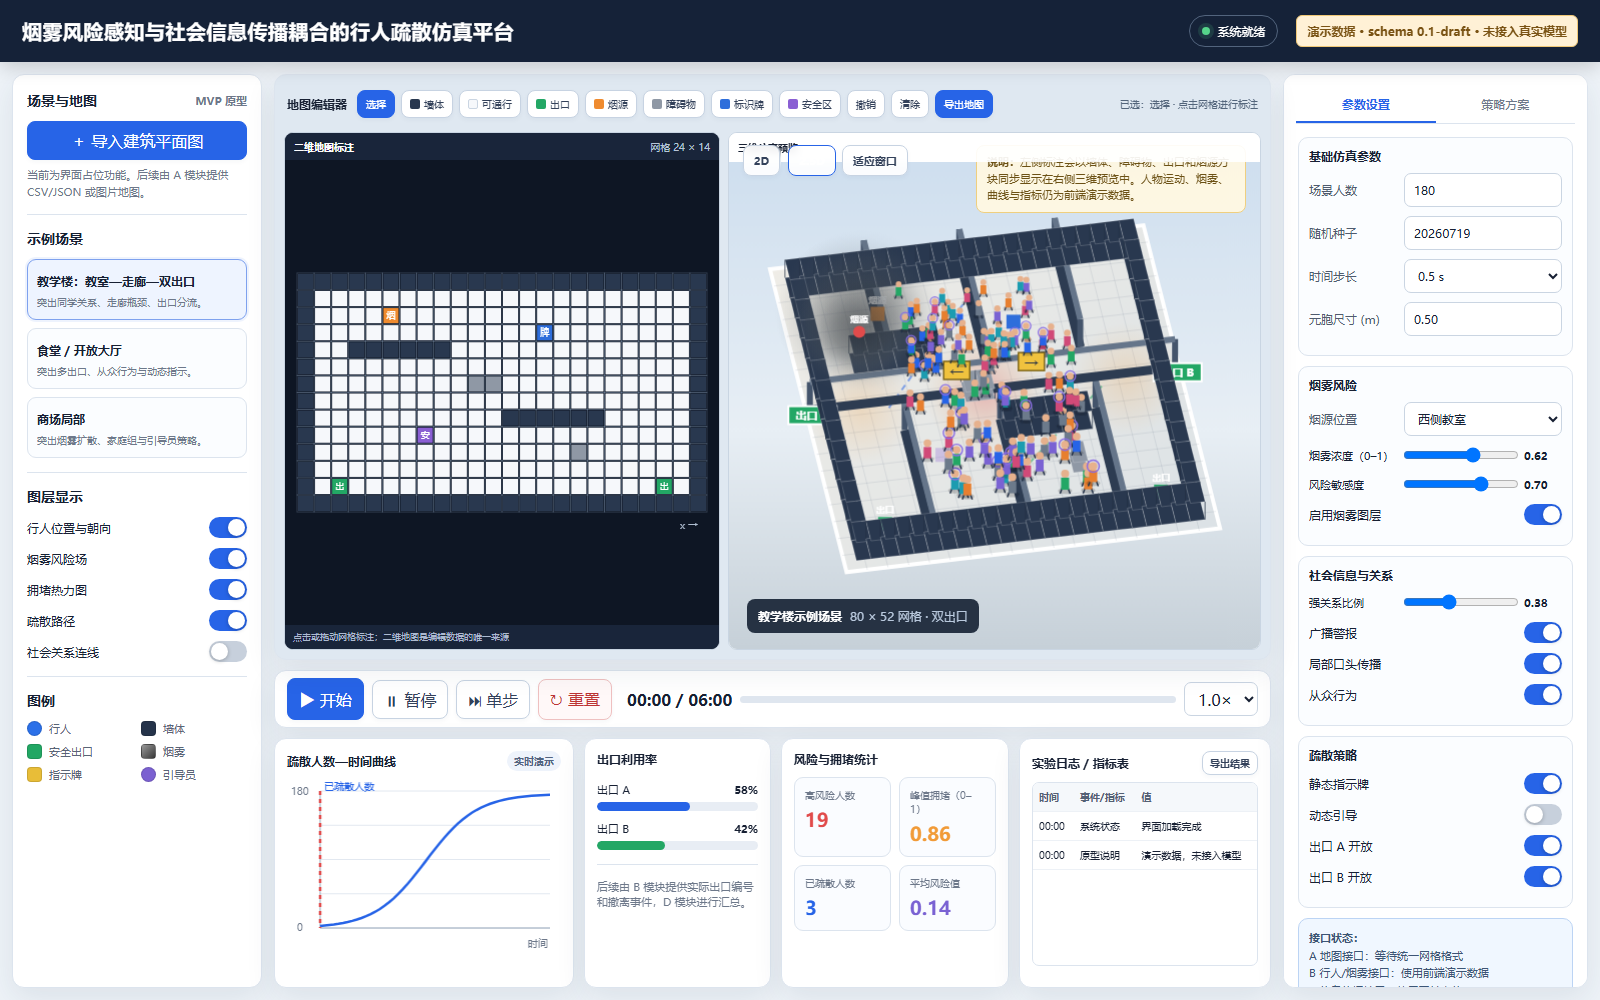
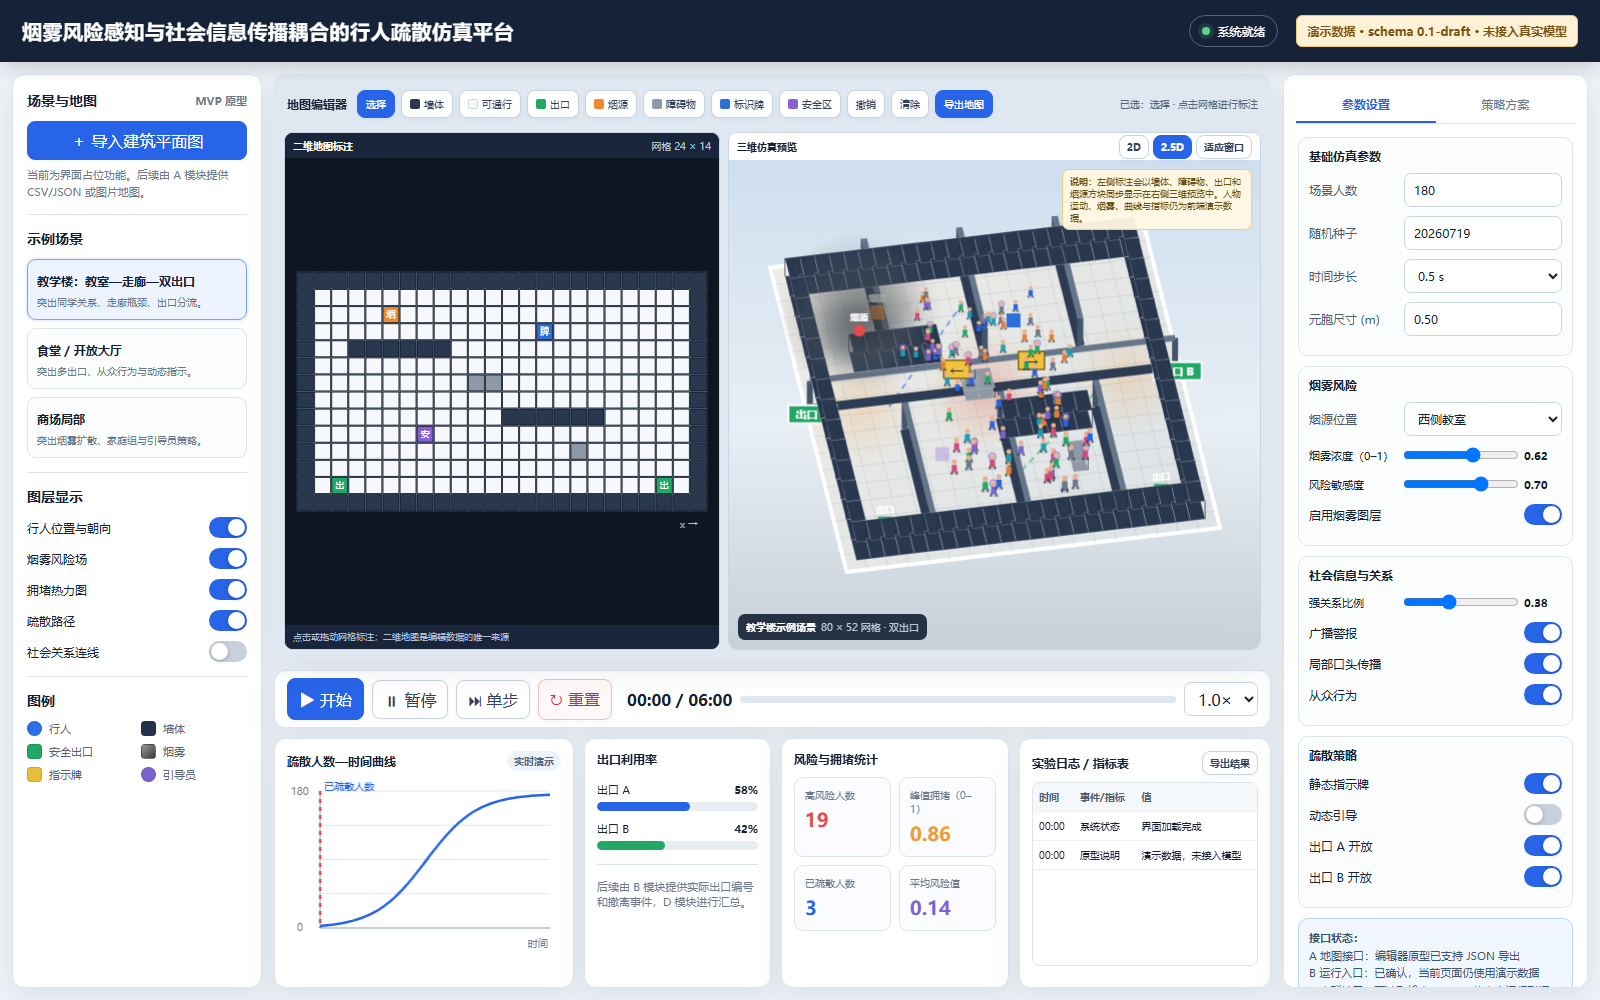
feat: refine map editor preview and document upstream contract

diff --git a/visualization/prototype/week2_ui_prototype.html b/visualization/prototype/week2_ui_prototype.html
@@ -85,20 +85,21 @@
   .map-workspace{flex:1;min-height:0;display:grid;grid-template-columns:minmax(250px,.9fr) minmax(310px,1.1fr);gap:8px}
   .editor-card,.preview-card{position:relative;min-width:0;min-height:0;border:1px solid #c9d5e2;border-radius:9px;background:#fff;overflow:hidden;display:flex;flex-direction:column}
   .editor-card{background:#111927}
-  .editor-head,.preview-head{height:30px;display:flex;align-items:center;justify-content:space-between;padding:0 9px;font-size:10px;font-weight:800;background:rgba(255,255,255,.92);z-index:2}
+  .editor-head,.preview-head{height:28px;display:flex;align-items:center;justify-content:space-between;padding:0 8px;font-size:10px;font-weight:800;background:rgba(255,255,255,.92);z-index:2}
   .editor-head{background:#19253a;color:#fff}.editor-head span{font-weight:500;color:#b8c6d8}
   .editor-hint{height:25px;padding:5px 8px;font-size:9px;color:#adbad0;background:#19253a;white-space:nowrap}
   #mapEditorCanvas,#simCanvas{width:100%;height:100%;display:block}
   #mapEditorCanvas{cursor:crosshair;background:#0e1624}
   .preview-card #simCanvas{background:linear-gradient(#d9e7f5,#edf3f8);flex:1}
-  .view-toolbar{position:absolute;left:14px;top:12px;display:flex;gap:7px}
-  .view-toolbar .btn{padding:7px 10px;font-size:11px;background:rgba(255,255,255,.9);backdrop-filter:blur(4px)}
+  .view-toolbar{position:static;display:flex;gap:4px;align-items:center}
+  .view-toolbar .btn{padding:4px 7px;font-size:10px;background:rgba(255,255,255,.9);backdrop-filter:blur(4px)}
+  .view-toolbar .btn.primary{background:var(--blue);border-color:var(--blue);color:#fff}
   .overlay-note{
-    position:absolute;right:14px;top:12px;background:rgba(255,248,225,.94);border:1px solid #efcf7f;
-    color:#6c5115;border-radius:8px;padding:8px 10px;font-size:11px;max-width:270px;line-height:1.5
+    position:absolute;right:8px;top:36px;background:rgba(255,248,225,.94);border:1px solid #efcf7f;
+    color:#6c5115;border-radius:7px;padding:5px 7px;font-size:9px;max-width:190px;line-height:1.35
   }
-  .scene-label{position:absolute;left:18px;bottom:16px;background:rgba(15,27,45,.88);color:#fff;border-radius:8px;padding:9px 11px;font-size:12px}
-  .scene-label span{color:#b9c9dd;margin-left:8px}
+  .scene-label{position:absolute;left:9px;bottom:9px;background:rgba(15,27,45,.88);color:#fff;border-radius:7px;padding:6px 8px;font-size:10px}
+  .scene-label span{color:#b9c9dd;margin-left:5px}
   .controls{height:58px;padding:9px 12px;display:flex;align-items:center;gap:8px}
   .controls .btn{min-width:72px}
   .controls .timer{font-variant-numeric:tabular-nums;font-weight:800;margin-left:7px}
@@ -301,10 +302,10 @@
 
       <div class="status-card" id="interfaceStatus">
         <b>接口状态：</b><br>
-        A 地图接口：等待统一网格格式<br>
-        B 行人/烟雾接口：使用前端演示数据<br>
-        C 信息传播接口：使用开关占位<br>
-        D 日志与指标：结构已设计
+        A 地图接口：编辑器原型已支持 JSON 导出<br>
+        B 运行入口：已确认，当前页面仍使用演示数据<br>
+        C 人群接口：可读取输出 JSON，待真实运行联调<br>
+        D 日志与指标：逐步日志链路已完成
       </div>
       <div class="footer-actions">
         <button class="btn" id="applyBtn">应用参数</button>
@@ -617,17 +618,17 @@
 
   function drawAgents(){
     if(!$('layerPeople').checked)return;
-    agents.filter(a=>!a.evacuated).slice(0,130).forEach(a=>{
+    agents.filter(a=>!a.evacuated).slice(0,96).forEach(a=>{
       const q=pathPoint(a),p=project(q.x,q.y,7);
-      const scale=perspective ? .65+q.y*.45 : .88;
+      const scale=perspective ? .52+q.y*.31 : .70;
       const colors=['#2764e7','#23a765','#e77f2f','#7a62d3','#1c9cb0','#d14a78','#6c7a8b'];
       ctx.save();ctx.translate(p.x,p.y);ctx.scale(scale,scale);
-      ctx.fillStyle='rgba(0,0,0,.18)';ctx.beginPath();ctx.ellipse(0,8,7,3,0,0,Math.PI*2);ctx.fill();
+      ctx.fillStyle='rgba(0,0,0,.16)';ctx.beginPath();ctx.ellipse(0,7,6,2.5,0,0,Math.PI*2);ctx.fill();
       ctx.strokeStyle='#223047';ctx.lineWidth=1.5;
-      ctx.beginPath();ctx.moveTo(-2,3);ctx.lineTo(-5,11);ctx.moveTo(2,3);ctx.lineTo(5,11);ctx.stroke();
-      ctx.fillStyle=colors[a.hue];ctx.fillRect(-4,-5,8,12);
-      ctx.fillStyle='#e7b18d';ctx.beginPath();ctx.arc(0,-9,4,0,Math.PI*2);ctx.fill();
-      if(a.group>=0){ctx.strokeStyle='#8a6de3';ctx.lineWidth=1.5;ctx.beginPath();ctx.arc(0,-9,6,0,Math.PI*2);ctx.stroke();}
+      ctx.beginPath();ctx.moveTo(-2,3);ctx.lineTo(-4,9);ctx.moveTo(2,3);ctx.lineTo(4,9);ctx.stroke();
+      ctx.fillStyle=colors[a.hue];ctx.fillRect(-3.5,-4,7,10);
+      ctx.fillStyle='#e7b18d';ctx.beginPath();ctx.arc(0,-8,3.4,0,Math.PI*2);ctx.fill();
+      if(a.group>=0){ctx.strokeStyle='#8a6de3';ctx.lineWidth=1.3;ctx.beginPath();ctx.arc(0,-8,5,0,Math.PI*2);ctx.stroke();}
       ctx.restore();
     });
   }

diff --git a/docs/d_week3/weekly_report.md b/docs/d_week3/weekly_report.md
@@ -47,8 +47,8 @@
 
 ## 4. 当前最大问题
 
-1. B 尚未确认唯一正式仿真入口；
-2. B 尚未提供公开的逐步快照、撤离状态、冲突和出口切换事件；
+1. 上游已确认正式仿真入口为 `simulation.ca_model.CaEvacSimulation`，`step` 从 0 开始，且 `time_s = step × 0.5`；
+2. 上游暂未提供公开的运行后快照、`people_log.csv`、`heading`、`risk`、`dose`、`conflict` 和 `exit_switch`；D 对这些字段统一保留为空，不编造演示值；
 3. A 的 JSON/CSV 已能进入 D 地图预览，但地图烟源和出口元数据尚未组装为 B 的 `ScenarioConfig`；
 4. C 的 YAML 配置和 `output_people.json` 均可读取；
 5. C 的人员编号已经在 D 适配层兼容，当前仍需团队确认最终统一编号口径；
@@ -59,8 +59,8 @@
 
 1. 收到 A 的 CSV 顺序、烟源和出口元数据确认后，将地图预览接入可运行场景；
 2. 将 C 的 YAML 参数和人员关系输出接入统一场景工厂；
-3. 根据 B 确认的正式入口替换临时 mock 入口；
-4. 接入公开的 `heading`、`risk`、`dose`、拥堵和事件字段；
+3. 等待上游提供运行后快照和 `people_log.csv`，与 D 的日志字段进行正式对照；
+4. 接入后续公开的 `heading`、`risk`、`dose`、拥堵和事件字段；
 5. 使用更大场景检查动画性能、日志规模和异常处理；
 6. 开始计算第一批真实疏散指标。
 
@@ -71,7 +71,7 @@ D 没有修改 A、B、C 的代码或模型逻辑；本次新增的 `c_output_pe
 后续联调需要：
 
 - A 确认 CSV 行优先规则、上传函数命名及地图元数据传递方式；
-- B 提供唯一正式仿真入口与公开逐步状态；
+- 上游后续提供运行后快照、`people_log.csv` 与未实现字段的正式输出；
 - C 提供 YAML 配置到人员、关系及信息状态的稳定输出；
 - 团队共同确认坐标、场数组和事件格式。
 

diff --git a/docs/d_week3/README.md b/docs/d_week3/README.md
@@ -150,8 +150,8 @@ evac_success
 
 ### 7.3 仍待团队确认
 
-- B 的正式入口是 `ca_model.py` 还是 `evac_simulation.py`；
-- B 是否提供公开快照和撤离状态 API；
+- 已确认正式入口为 `simulation.ca_model.CaEvacSimulation`，`step` 从 0 开始，`time_s = step × 0.5`；
+- 上游暂未提供运行后快照、`people_log.csv` 与公开逐步状态 API；
 - 二维场索引顺序是否最终固定为 `[y][x]`；
 - A 地图的坐标原点与方向；
 - A 的 CSV 行优先保证和 `upload.py` 的正式函数命名；
@@ -165,13 +165,14 @@ evac_success
   `cells[y * width + x]` 读取；接入前必须确认 CSV 已按行优先完整排列，
   或由 A 的 loader 统一排序；
 - C 当前关系图人员编号为 `0...N-1`，而团队 D schema 约定为正整数；
-  在团队决定由 C 改为 `1...N` 或提供统一映射前，D 不擅自重编号；
+  D 已在只读适配层采用显式 `0-based → 1-based` 映射，并保留 source ID；
+  团队后续仍需冻结最终编号口径；
 - C 当前角色比例采用随机抽样，不保证 40 人按 0.9 / 0.1 精确得到
   36 / 4，`relation_intensity` 是否参与关系生成也仍待 C 确认。
 
 ## 8. 临时兼容说明
 
-当前 B 没有公开撤离状态，适配器临时只读：
+当前上游尚未提供完整公开快照；D 对暂未实现的 `heading`、`risk`、`dose`、`conflict` 与 `exit_switch` 统一保留为空，不填入演示值。撤离状态暂时只读：
 
 ```text
 simulation._evacuated_status
